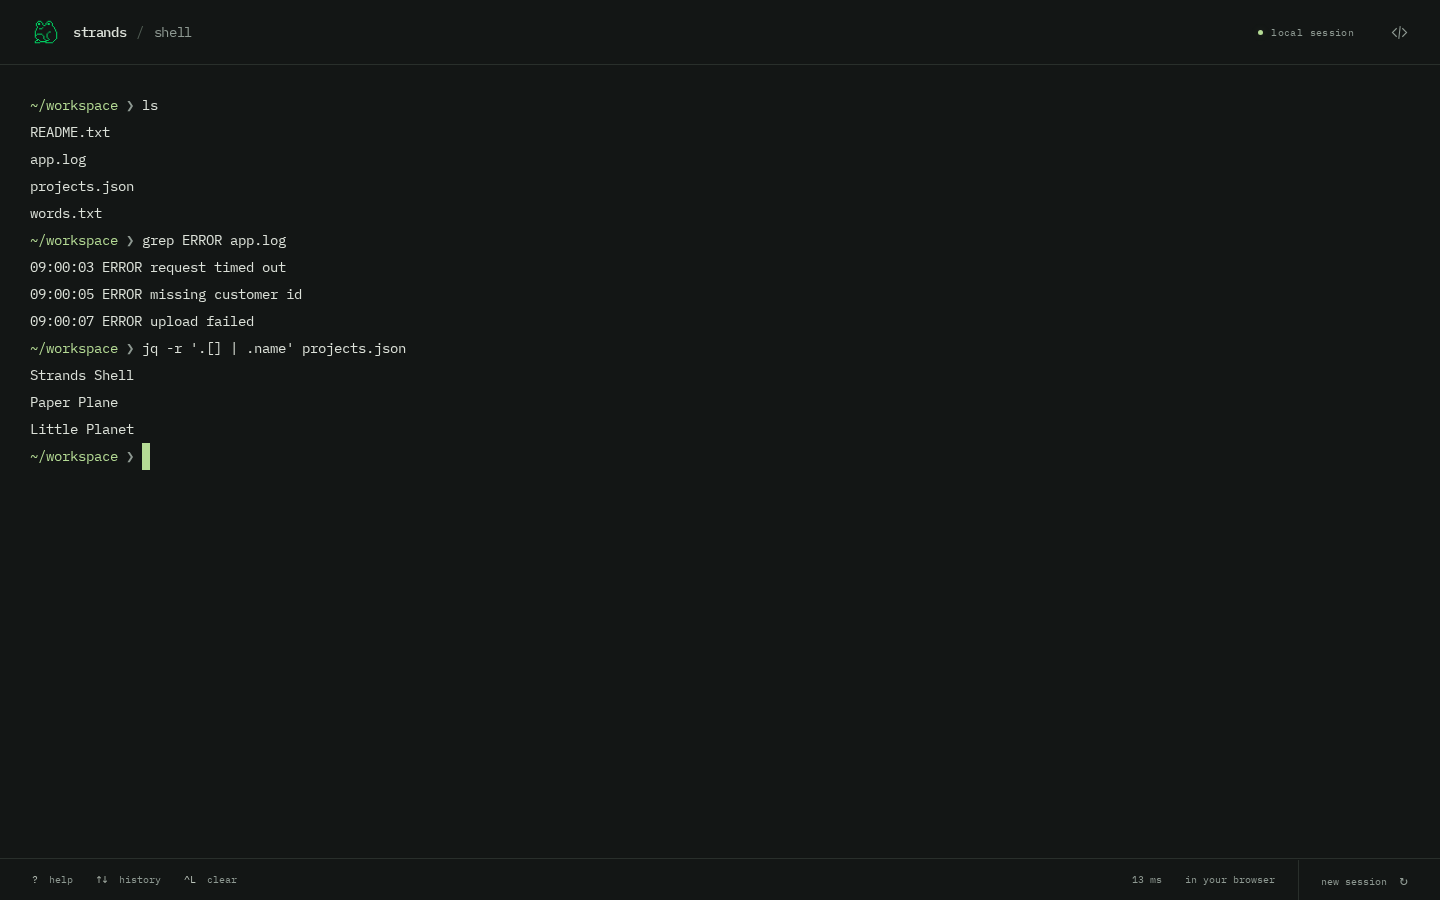
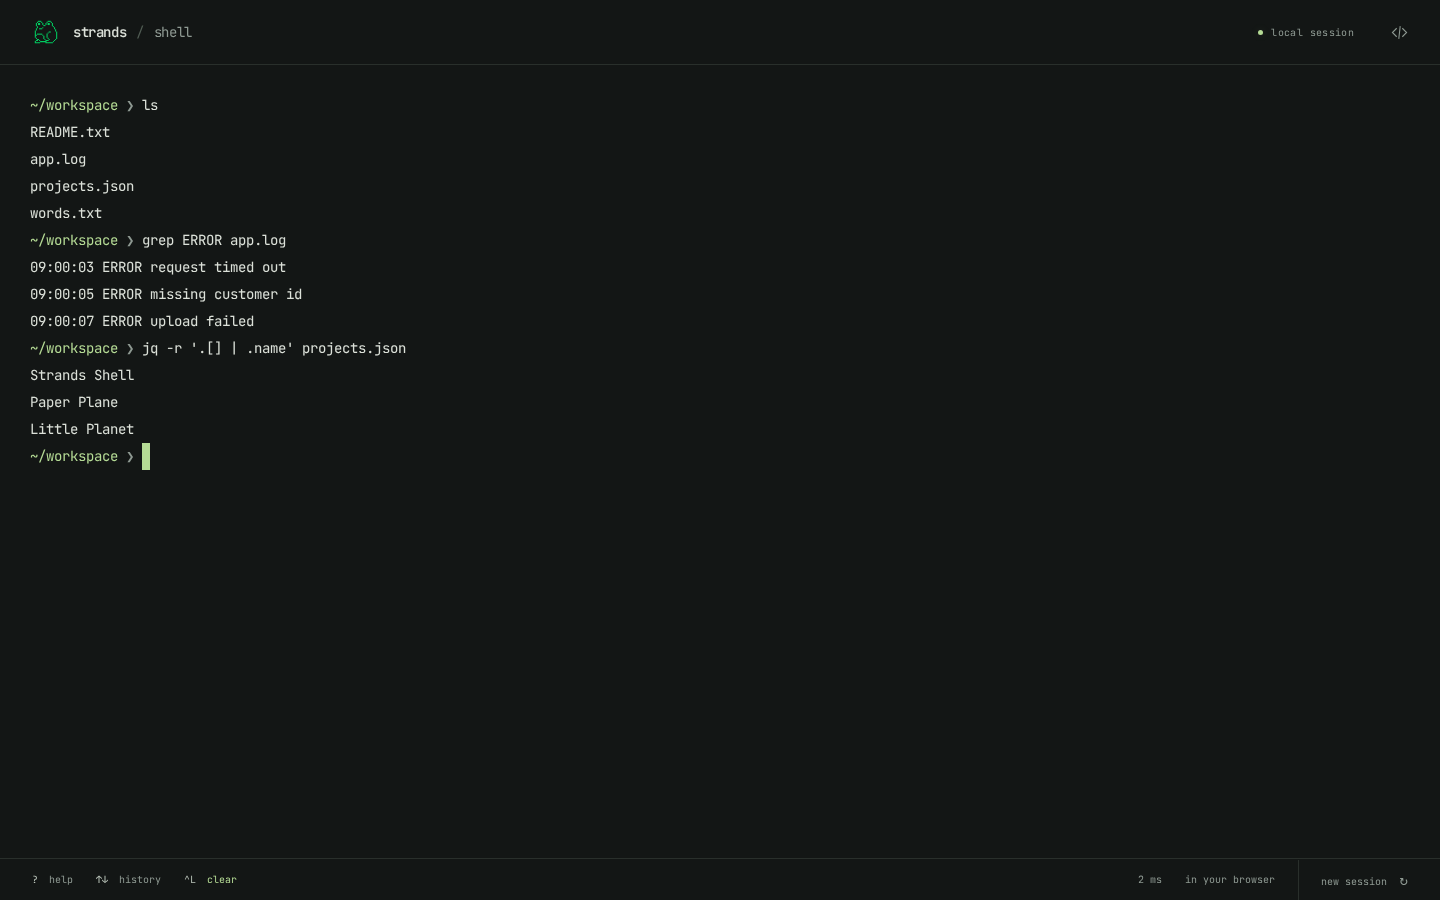
style: match the official Strands website fonts

diff --git a/style.css b/style.css
@@ -1,10 +1,14 @@
-@import '@fontsource/ibm-plex-mono/latin-400.css';
-@import '@fontsource/ibm-plex-mono/latin-500.css';
+@import '@fontsource/jetbrains-mono/latin-400.css';
+@import '@fontsource/jetbrains-mono/latin-500.css';
+@import '@fontsource/space-grotesk/latin-400.css';
+@import '@fontsource/space-grotesk/latin-500.css';
 @import '@xterm/xterm/css/xterm.css';
 
 :root {
   color-scheme: dark;
-  font-family: 'IBM Plex Mono', monospace;
+  --font-mono: 'JetBrains Mono', ui-monospace, monospace;
+  --font-body: 'Space Grotesk', system-ui, sans-serif;
+  font-family: var(--font-body);
   font-synthesis: none;
   color: #dce1d9;
   background: #131615;
@@ -28,6 +32,7 @@ button:disabled { cursor: default; opacity: .45; }
 .accessibility-control:focus { z-index: 10; top: 12px; left: 24px; width: auto; height: auto; padding: 12px; clip-path: none; background: #1c211e; border: 1px solid var(--accent); }
 
 .titlebar {
+  font-family: var(--font-mono);
   min-height: 65px;
   padding: 0 32px;
   display: flex;
@@ -56,6 +61,7 @@ body[data-state="busy"] .state-dot { animation: pulse 1s ease-in-out infinite; }
 .xterm .xterm-screen { outline: none; }
 
 .statusbar {
+  font-family: var(--font-mono);
   min-height: 42px;
   border-top: 1px solid var(--line);
   display: flex;
@@ -77,9 +83,9 @@ body[data-state="busy"] .state-dot { animation: pulse 1s ease-in-out infinite; }
 
 dialog { max-width: calc(100vw - 32px); padding: 28px; background: #1c211e; color: #dce1d9; border: 1px solid #424d44; border-radius: 6px; }
 dialog::backdrop { background: #070a09b3; }
-dialog h2 { font-size: 15px; font-weight: 500; margin: 0 0 14px; }
+dialog h2 { font-family: var(--font-mono); font-size: 15px; font-weight: 500; margin: 0 0 14px; }
 dialog p { color: #a7b1a9; font-size: 12px; line-height: 1.8; margin: 0 0 25px; }
-.dialog-actions { display: flex; justify-content: flex-end; gap: 23px; font-size: 11px; }
+.dialog-actions { display: flex; justify-content: flex-end; gap: 23px; font-family: var(--font-mono); font-size: 11px; }
 .dialog-actions button { padding: 8px 0; }
 .dialog-actions .confirm { color: var(--accent); }
 noscript { padding: 32px; color: #ed968c; }

diff --git a/main.js b/main.js
@@ -15,7 +15,7 @@ const reducedMotion = matchMedia('(prefers-reduced-motion: reduce)')
 const smallScreen = matchMedia('(max-width: 650px)')
 const term = new Terminal({
   allowProposedApi: true,
-  fontFamily: '"IBM Plex Mono", monospace',
+  fontFamily: '"JetBrains Mono", ui-monospace, monospace',
   fontSize: smallScreen.matches ? 13 : 14,
   fontWeight: '400',
   fontWeightBold: '500',
@@ -40,6 +40,7 @@ const fit = new FitAddon()
 term.loadAddon(fit)
 term.loadAddon(new Unicode11Addon())
 term.unicode.activeVersion = '11'
+await document.fonts.load(`${term.options.fontSize}px "JetBrains Mono"`)
 term.open(container)
 term.textarea.setAttribute('aria-label', 'Shell command')
 term.textarea.setAttribute('enterkeyhint', 'send')

diff --git a/README.md b/README.md
@@ -96,9 +96,10 @@ The adapter returns directory metadata for the prompt and completion without
 running an extra shell command or changing `$?`.
 
 [xterm.js](https://xtermjs.org/) renders the terminal. [Jco](https://github.com/bytecodealliance/jco)
-adapts the WebAssembly component to the browser. IBM Plex Mono is bundled locally;
-the page loads no external fonts. Command output retains text colors but cannot
-change the clipboard, create terminal hyperlinks, or reposition the cursor.
+adapts the WebAssembly component to the browser. JetBrains Mono and Space Grotesk
+match the official site and are bundled locally; the page loads no external fonts.
+Command output retains text colors but cannot change the clipboard, create
+terminal hyperlinks, or reposition the cursor.
 
 Licensed under Apache-2.0. To start developing, build once, run `npm run dev`, and
 use `npm run check:browser` against a production preview before pushing.
